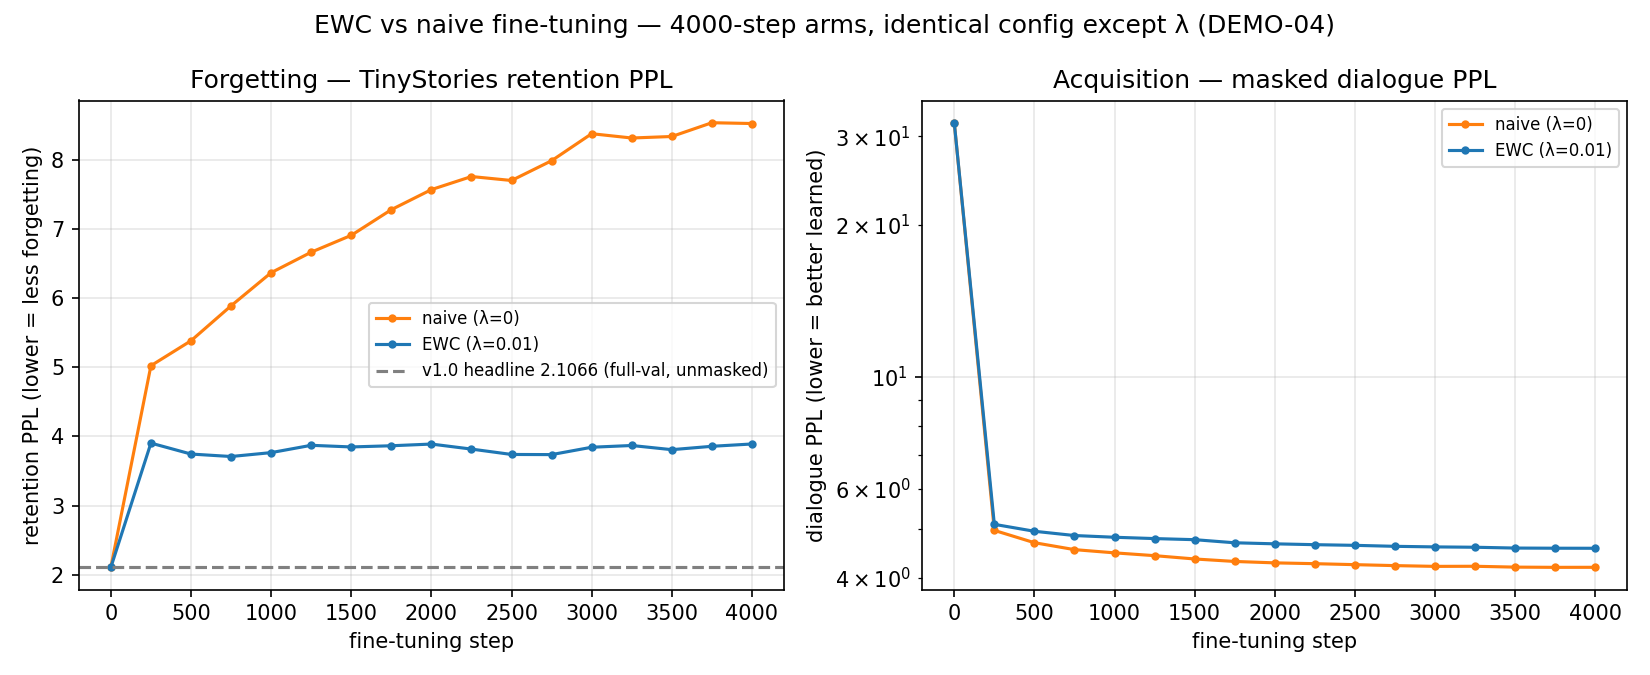
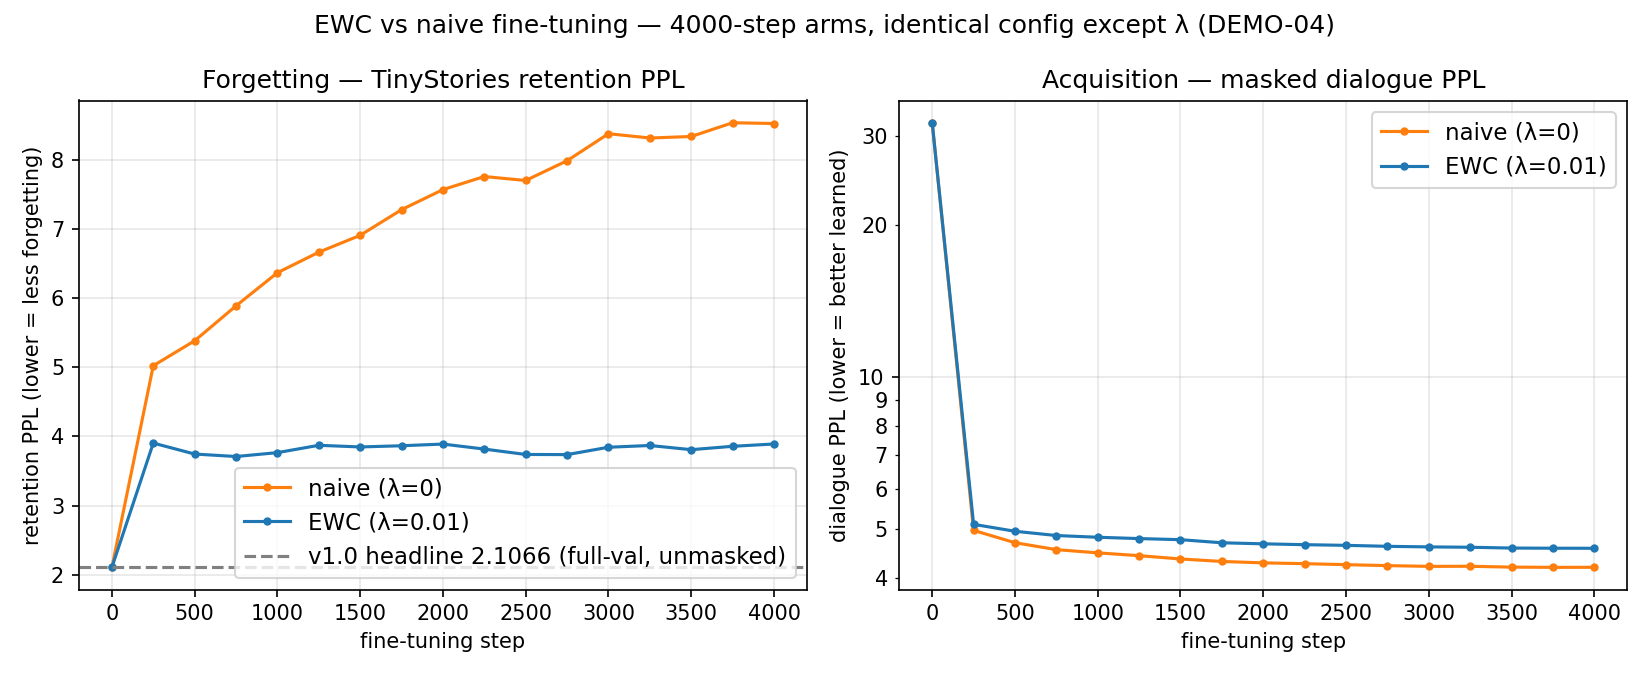
fix(13): plain-number log ticks + legible legend on the acquisition panel
The acquisition panel keeps its log y-scale (step-0 is 31.9; linear collapses
the 4.19-vs-4.57 comparison) but matplotlib's default log formatter rendered
the ticks as 4x10^0 / 6x10^0 / 10^1 / 3x10^1. The panel's whole job is
comparing perplexities, so the ticks now read 4 5 6 7 8 9 10 20 30 on both
major and minor.

Legend 8pt -> 11pt: at 11in wide this figure is read at ~7in column width,
where 8pt lands near 5pt.

Data untouched -- same series, same dashed 2.1066 baseline. The frontier
figure needed no change and regenerated byte-identical.

diff --git a/scripts/plot_phase13.py b/scripts/plot_phase13.py
@@ -27,6 +27,7 @@ import matplotlib
 matplotlib.use("Agg")
 
 import matplotlib.pyplot as plt  # noqa: E402  (must follow the backend selection above)
+from matplotlib.ticker import StrMethodFormatter  # noqa: E402  (same reason)
 
 _REPO_ROOT = pathlib.Path(__file__).resolve().parent.parent
 RESULTS_DIR = _REPO_ROOT / "results"  # git-TRACKED output, next to the A/B report
@@ -54,6 +55,10 @@ ARMS = (
     ("EWC (λ=0.01)", EWC_CSV, "C0"),
 )
 DPI = 150
+
+# The 11in curve figure is read at ~7in column width, so anything below ~10pt drops under 6pt
+# on the page. Nothing on either figure is smaller than this.
+LEGEND_FONTSIZE = 11
 
 
 def _rows(path):
@@ -105,13 +110,21 @@ def plot_forgetting_curve(out_dir):
     # Log y: the step-0 anchor is 31.9 and both arms land near 4.2-4.6, so a linear axis
     # collapses the entire post-anchor separation into one pixel band.
     ax_dlg.set_yscale("log")
+    # ...but the DEFAULT log formatter then labels the ticks 4x10^0 / 6x10^0 / 10^1 / 3x10^1.
+    # This panel exists to compare perplexities of 31.90 -> 4.19 vs 4.57, so the reader must
+    # not have to decode "4x10^0" as 4.0. Plain numbers on BOTH major and minor ticks (in this
+    # range 10 is the only major; 4/6/20/30 are all minor, so majors alone would label almost
+    # nothing). "{x:g}" over a bare ScalarFormatter so the major reads "10", not "10.0".
+    plain = StrMethodFormatter("{x:g}")
+    ax_dlg.yaxis.set_major_formatter(plain)
+    ax_dlg.yaxis.set_minor_formatter(plain)
     ax_dlg.set_title("Acquisition — masked dialogue PPL")
     ax_dlg.set_ylabel("dialogue PPL (lower = better learned)")
 
     for ax in (ax_ret, ax_dlg):
         ax.set_xlabel("fine-tuning step")
         ax.grid(alpha=0.3)
-        ax.legend(fontsize=8)
+        ax.legend(fontsize=LEGEND_FONTSIZE)
 
     fig.suptitle("EWC vs naive fine-tuning — 4000-step arms, identical config except λ (DEMO-04)")
     fig.tight_layout()
